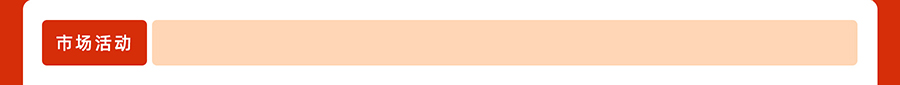
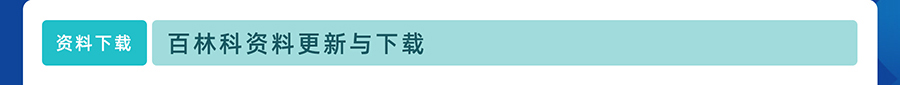
Add files via upload

diff --git a/download.html b/download.html
@@ -1,0 +1,109 @@
+<!doctype html>
+<html>
+<head>
+<meta charset="utf-8">
+<title>无标题文档</title>
+<style type="text/css"></style>
+</head>
+<body font size="0">
+<table border="0" align="center" cellpadding="0" cellspacing="0" bgcolor="#0f459b" width="900">
+  <tr><td colspan="5"><img align="absmiddle" src="banner.jpg" style="float:left;margin-left:0px;"></td></tr>
+  <tr><td colspan="5"><a href="https://mp.weixin.qq.com/s/qbF-quPCbIiAVmuA1yw9aQ" target="_blank"><img align="absmiddle" src="title.jpg" style="float:left;margin-left:0px;"></a></td></tr>
+  <tr><td width="23">&nbsp;</td>
+    <td width="40" bgcolor="#FFFFFF"></td>
+    <td width="774" bgcolor="#FFFFFF"><font color="#b0221e" size="4" face="阿里巴巴普惠体">公司介绍</font>
+      <ul>
+        <li><a href="https://qr.dingtalk.com/page/yunpan?route=previewDentry&spaceId=8086400362&fileId=129513717646&type=file" target="_blank"><font color="#333333" size="3" face="阿里巴巴普惠体">【公司介绍】百林科宣传页2023</font></a></li>
+		<li><a href="https://qr.dingtalk.com/page/yunpan?route=previewDentry&spaceId=8086400362&fileId=129513365692&type=file" target="_blank"><font color="#333333" size="3" face="阿里巴巴普惠体">【公司介绍】百林科宣传页2023-ENG</font></a></li>
+        <li><a href="https://qr.dingtalk.com/page/yunpan?route=previewDentry&spaceId=8086400362&fileId=120339082653&type=file" target="_blank"><font color="#333333" size="3" face="阿里巴巴普惠体">百林科 生物工艺核心装备和耗材解决方案供应商</font></a></li>
+        <li><a href="https://qr.dingtalk.com/page/yunpan?route=previewDentry&spaceId=8086400362&fileId=114509986481&type=file" target="_blank"><font color="#333333" size="3" face="阿里巴巴普惠体">【官方介绍】This is BioLink-2023V8</font></a></li>
+      </ul>
+      <p><font color="#b0221e" size="4" face="阿里巴巴普惠体">产品手册</font></p>
+      <ul>
+        <li><a href="https://qr.dingtalk.com/page/yunpan?route=previewDentry&spaceId=8086400362&fileId=130492978861&type=file" target="_blank"><font color="#333333" size="3" face="阿里巴巴普惠体">科研用户选型手册</font></a></li>
+        <li><a href="https://qr.dingtalk.com/page/yunpan?route=previewDentry&spaceId=8086400362&fileId=132292503448&type=file" target="_blank"><font color="#333333" size="3" face="阿里巴巴普惠体">NovaLinX® Nuclease-free 一次性耗材</font></a></li>
+        <li><a href="https://qr.dingtalk.com/page/yunpan?route=previewDentry&spaceId=8086400362&fileId=126455127081&type=file" target="_blank"><font color="#333333" size="3" face="阿里巴巴普惠体">Chrom-LinX® 系列手动压缩层析柱</font></a></li>
+        <li><a href="https://qr.dingtalk.com/page/yunpan?route=previewDentry&spaceId=8086400362&fileId=126440441151&type=file" target="_blank"><font color="#333333" size="3" face="阿里巴巴普惠体">Chrom-LinX® Manual Compression Chromatography Column</font></a></li>
+        <li><a href="https://qr.dingtalk.com/page/yunpan?route=previewDentry&spaceId=8086400362&fileId=126455009372&type=file" target="_blank"><font color="#333333" size="3" face="阿里巴巴普惠体">Chrom-LinX® Auto系列电动柱层析柱</font></a></li>
+        <li><a href="https://qr.dingtalk.com/page/yunpan?route=previewDentry&spaceId=8086400362&fileId=126440014111&type=file" target="_blank"><font color="#333333" size="3" face="阿里巴巴普惠体">Chrom-LinX® Auto Automated Chromatography Column</font></a></li>
+        <li><a href="https://qr.dingtalk.com/page/yunpan?route=previewDentry&spaceId=8086400362&fileId=132331336323&type=file" target="_blank"><font color="#333333" size="3" face="阿里巴巴普惠体">CytoLinX® WB系列一次性细胞培养袋</font></a></li>
+        <li><a href="https://qr.dingtalk.com/page/yunpan?route=previewDentry&spaceId=8086400362&fileId=130660359337&type=file" target="_blank"><font color="#333333" size="3" face="阿里巴巴普惠体">CytoLinX® GB系列台式玻璃生物反应器</font></a></li>
+        <li><a href="https://qr.dingtalk.com/page/yunpan?route=previewDentry&spaceId=8086400362&fileId=127636606269&type=file" target="_blank"><font color="#333333" size="3" face="阿里巴巴普惠体">CytoLinX® GB Benchtop Glass Bioreactor</font></a></li>
+        <li><a href="https://qr.dingtalk.com/page/yunpan?route=previewDentry&spaceId=8086400362&fileId=124704428335&type=file" target="_blank"><font color="#333333" size="3" face="阿里巴巴普惠体">CytoLinX® BR 50-2000 L Single-Use Bioreactor</font></a></li>
+        <li><a href="https://qr.dingtalk.com/page/yunpan?route=previewDentry&spaceId=8086400362&fileId=130660440425&type=file" target="_blank"><font color="#333333" size="3" face="阿里巴巴普惠体">HydroLinX® 水化产品</font></a></li>
+        <li><a href="https://qr.dingtalk.com/page/yunpan?route=previewDentry&spaceId=8086400362&fileId=124061086941&type=file" target="_blank"><font color="#333333" size="3" face="阿里巴巴普惠体">HydroLinX® Hydration Products</font></a></li>
+        <li><a href="https://qr.dingtalk.com/page/yunpan?route=previewDentry&spaceId=8086400362&fileId=130635666799&type=file" target="_blank"><font color="#333333" size="3" face="阿里巴巴普惠体">BioHub® 一体式隔膜仪表三通</font></a></li>
+        <li><a href="https://qr.dingtalk.com/page/yunpan?route=previewDentry&spaceId=8086400362&fileId=130659969679&type=file" target="_blank"><font color="#333333" size="3" face="阿里巴巴普惠体">BioHub® Sealer 二代无菌封管机</font></a></li>
+        <li><a href="https://qr.dingtalk.com/page/yunpan?route=previewDentry&spaceId=8086400362&fileId=124061859986&type=file" target="_blank"><font color="#333333" size="3" face="阿里巴巴普惠体">BioHub® Sealer</font></a></li>
+        <li><a href="https://qr.dingtalk.com/page/yunpan?route=previewDentry&spaceId=8086400362&fileId=124061086941&type=file" target="_blank"></a><a href="https://qr.dingtalk.com/page/yunpan?route=previewDentry&spaceId=8086400362&fileId=121586254804&type=file" target="_blank"><font color="#333333" size="3" face="阿里巴巴普惠体">BioHub® DS系列 一次性桌面搅拌系统</font></a></li>
+        <li><a href="https://qr.dingtalk.com/page/yunpan?route=previewDentry&spaceId=8086400362&fileId=130660470368&type=file" target="_blank"><font color="#333333" size="3" face="阿里巴巴普惠体">PuriLinX® 台式层析系统</font></a></li>
+        <li><a href="https://qr.dingtalk.com/page/yunpan?route=previewDentry&spaceId=8086400362&fileId=124164339375&type=file" target="_blank"><font color="#333333" size="3" face="阿里巴巴普惠体">PuriLinX® Desktop Chromatography System</font></a></li>
+        <li><a href="https://qr.dingtalk.com/page/yunpan?route=previewDentry&spaceId=8086400362&fileId=128605800884&type=file" target="_blank"><font color="#333333" size="3" face="阿里巴巴普惠体">一次性技术解决方案选型指南</font></a></li>
+        <li><a href="https://qr.dingtalk.com/page/yunpan?route=previewDentry&spaceId=8086400362&fileId=128892223386&type=file" target="_blank"><font color="#333333" size="3" face="阿里巴巴普惠体">Single-Use Solution Selection Guide</font></a></li>
+        <li><a href="https://qr.dingtalk.com/page/yunpan?route=previewDentry&spaceId=8086400362&fileId=130659940188&type=file" target="_blank"><font color="#333333" size="3" face="阿里巴巴普惠体">FiltraLinX® 超滤夹具系统</font></a></li>
+        <li><a href="https://qr.dingtalk.com/page/yunpan?route=previewDentry&spaceId=8086400362&fileId=130374938801&type=file" target="_blank"><font color="#333333" size="3" face="阿里巴巴普惠体">FiltraLinX® Benchtop Semi-Automated TFF System</font></a></li>
+        <li><a href="https://qr.dingtalk.com/page/yunpan?route=previewDentry&spaceId=8086400362&fileId=129943759589&type=file" target="_blank"><font color="#333333" size="3" face="阿里巴巴普惠体">FiltraLinX® 桌面实验型半自动中空纤维超滤系统</font></a></li>
+        <li><a href="https://qr.dingtalk.com/page/yunpan?route=previewDentry&spaceId=8086400362&fileId=130374938801&type=file" target="_blank"><font color="#333333" size="3" face="阿里巴巴普惠体">FiltraLinX® Benchtop Semi-Automated TFF System</font></a></li>
+		<li><a href="https://qr.dingtalk.com/page/yunpan?route=previewDentry&spaceId=8086400362&fileId=131017048829&type=file" target="_blank"><font color="#333333" size="3" face="阿里巴巴普惠体">FiltraLinX® Benchtop Manual Hollow Fiber TFF System</font></a></li>
+        <li><a href="https://qr.dingtalk.com/page/yunpan?route=previewDentry&spaceId=8086400362&fileId=129943598385&type=file" target="_blank"><font color="#333333" size="3" face="阿里巴巴普惠体">FiltraLinX® 桌面手动中空纤维超滤系统</font></a></li>
+        <li><a href="https://qr.dingtalk.com/page/yunpan?route=previewDentry&spaceId=8086400362&fileId=131377359743&type=file" target="_blank"><font color="#333333" size="3" face="阿里巴巴普惠体">FiltraLinX® Tangential Flow Filtration Holder</font></a></li>
+        <li><a href="https://qr.dingtalk.com/page/yunpan?route=previewDentry&spaceId=8086400362&fileId=130660129762&type=file" target="_blank"><font color="#333333" size="3" face="阿里巴巴普惠体">FiltraLinX® 系列除病毒过滤夹具</font></a></li>
+        <li><a href="https://qr.dingtalk.com/page/yunpan?route=previewDentry&spaceId=8086400362&fileId=127529980810&type=file" target="_blank"><font color="#333333" size="3" face="阿里巴巴普惠体">FiltraLinX® Virus Filter Holder</font></a></li>
+        <li><a href="https://qr.dingtalk.com/page/yunpan?route=previewDentry&spaceId=8086400362&fileId=118868067881&type=file" target="_blank"><font color="#333333" size="3" face="阿里巴巴普惠体">FiltraLinX® 系列深层过滤夹具（M款）</font></a></li>
+        <li><a href="https://qr.dingtalk.com/page/yunpan?route=previewDentry&spaceId=8086400362&fileId=118857284436&type=file" target="_blank"><font color="#333333" size="3" face="阿里巴巴普惠体">FiltraLinX® Depth Filter Holder (Type M)</font></a></li>
+        <li><a href="https://qr.dingtalk.com/page/yunpan?route=previewDentry&spaceId=8086400362&fileId=118868271991&type=file" target="_blank"><font color="#333333" size="3" face="阿里巴巴普惠体">FiltraLinX® 系列深层过滤夹具(P3C款）</font></a></li>
+        <li><a href="https://qr.dingtalk.com/page/yunpan?route=previewDentry&spaceId=8086400362&fileId=118857216109&type=file" target="_blank"><font color="#333333" size="3" face="阿里巴巴普惠体">FiltraLinX® Depth Filter Holder (Type P3C)</font></a></li>
+        <li><a href="https://qr.dingtalk.com/page/yunpan?route=previewDentry&spaceId=8086400362&fileId=130660499121&type=file" target="_blank"><font color="#333333" size="3" face="阿里巴巴普惠体">BioHub® 一次性细胞培养配套耗材</font></a></li>
+        <li><a href="https://qr.dingtalk.com/page/yunpan?route=previewDentry&spaceId=8086400362&fileId=118843793212&type=file" target="_blank"><font color="#333333" size="3" face="阿里巴巴普惠体">BioHub® Single-Use Cell Culture Consumables</font></a></li>
+        <li><a href="https://qr.dingtalk.com/page/yunpan?route=previewDentry&spaceId=8086400362&fileId=128964712436&type=file" target="_blank"><font color="#333333" size="3" face="阿里巴巴普惠体">ChromaX® 层析介质选择指南</font></a></li>
+        <li><a href="https://qr.dingtalk.com/page/yunpan?route=previewDentry&spaceId=8086400362&fileId=128964910942&type=file" target="_blank"><font color="#333333" size="3" face="阿里巴巴普惠体">ChromaX® Chromatography Resin Selection Guide</font></a></li>
+        <li><a href="https://qr.dingtalk.com/page/yunpan?route=previewDentry&spaceId=8086400362&fileId=130659866622&type=file" target="_blank"><font color="#333333" size="3" face="阿里巴巴普惠体">ChromaX®A20亲和色谱分析柱</font></a></li>
+        <li><a href="https://qr.dingtalk.com/page/yunpan?route=previewDentry&spaceId=8086400362&fileId=114447809911&type=file" target="_blank"><font color="#333333" size="3" face="阿里巴巴普惠体">ChromaX® A20 Affinity Chromatography Column</font></a></li>
+      </ul>
+      <p><font color="#b0221e" size="4" face="阿里巴巴普惠体">宣传视频</font></p>
+      <ul><li><a href="https://qr.dingtalk.com/page/yunpan?route=previewDentry&spaceId=8086400362&fileId=130411198940&type=file" target="_blank"><font color="#333333" size="3" face="阿里巴巴普惠体">【Video】FiltraLinX® Benchtop Semi-Automatic TFF System</font></a></li>
+        <li><a href="https://qr.dingtalk.com/page/yunpan?route=previewDentry&spaceId=8086400362&fileId=128148800997&type=file" target="_blank"><font color="#333333" size="3" face="阿里巴巴普惠体">【Video】FiltraLinX® 桌面实验型半自动超滤系统-CN</font></a></li>
+        <li><a href="https://qr.dingtalk.com/page/yunpan?route=previewDentry&spaceId=8086400362&fileId=124965736749&type=file" target="_blank"><font color="#333333" size="3" face="阿里巴巴普惠体">【Video】CytoLinX® BR 一次性生物反应器-CN</font></a></li>
+        <li><a href="https://qr.dingtalk.com/page/yunpan?route=previewDentry&spaceId=8086400362&fileId=127170098610&type=file" target="_blank"><font color="#333333" size="3" face="阿里巴巴普惠体">【Video】CytoLinX® BR Single-Use Bioreactor</font></a></li>
+        <li><a href="https://qr.dingtalk.com/page/yunpan?route=previewDentry&spaceId=8086400362&fileId=125664025897&type=file" target="_blank"><font color="#333333" size="3" face="阿里巴巴普惠体">【Video】CytoLinX® WB 一次性波浪式生物反应器-CN</font></a></li>
+        <li><a href="https://qr.dingtalk.com/page/yunpan?route=previewDentry&spaceId=8086400362&fileId=126563649088&type=file" target="_blank"><font color="#333333" size="3" face="阿里巴巴普惠体">【Video】CytoLinX® WB Single-Use Rocking Bioreactor</font></a></li>
+        <li><a href="https://qr.dingtalk.com/page/yunpan?route=previewDentry&spaceId=8086400362&fileId=128604506389&type=file" target="_blank"><font color="#333333" size="3" face="阿里巴巴普惠体">【Video】CytoLinX® WB 200 一次性波浪式生物反应器-CN</font></a></li>
+        <li><a href="https://qr.dingtalk.com/page/yunpan?route=previewDentry&spaceId=8086400362&fileId=129620571442&type=file" target="_blank"><font color="#333333" size="3" face="阿里巴巴普惠体">【Video】CytoLinX® WB 200 Single-Use Rocking Bioreactor</font></a></li>
+        <li><a href="https://qr.dingtalk.com/page/yunpan?route=previewDentry&spaceId=8086400362&fileId=125775218570&type=file" target="_blank"><font color="#333333" size="3" face="阿里巴巴普惠体">【Video】PuriLinX® 台式层析系统-CN</font></a></li>
+        <li><a href="https://qr.dingtalk.com/page/yunpan?route=previewDentry&spaceId=8086400362&fileId=125775218570&type=file" target="_blank"><font color="#333333" size="3" face="阿里巴巴普惠体">【Video】PuriLinX® Desktop Chromatography System</font></a></li>
+        <li><a href="https://qr.dingtalk.com/page/yunpan?route=previewDentry&spaceId=8086400362&fileId=127169479485&type=file" target="_blank"><font color="#333333" size="3" face="阿里巴巴普惠体">【Video】BioLink Mixing Solutions</font></a></li>
+        <li><a href="https://qr.dingtalk.com/page/yunpan?route=previewDentry&spaceId=8086400362&fileId=126487743589&type=file" target="_blank"><font color="#333333" size="3" face="阿里巴巴普惠体">【Video】BioHub® DS Desktop Mixing System</font></a></li>
+        <li><a href="https://qr.dingtalk.com/page/yunpan?route=previewDentry&spaceId=8086400362&fileId=130297440494&type=file" target="_blank"><font color="#333333" size="3" face="阿里巴巴普惠体">【Video】BioHub® Sealer New Generation</font></a></li>
+        <li><a href="https://qr.dingtalk.com/page/yunpan?route=previewDentry&spaceId=8086400362&fileId=122306842191&type=file" target="_blank"><font color="#333333" size="3" face="阿里巴巴普惠体">【Video】CytoLinX® GB 台式玻璃生物反应器-CN</font></a></li>
+        <li><a href="https://qr.dingtalk.com/page/yunpan?route=previewDentry&spaceId=8086400362&fileId=113627440022&type=file" target="_blank"><font color="#333333" size="3" face="阿里巴巴普惠体">【Video】百林科兰州智能智造基地二期视频-CN</font></a></li>
+        <li><a href="https://qr.dingtalk.com/page/yunpan?route=previewDentry&spaceId=8086400362&fileId=116183947859&type=file" target="_blank"><font color="#333333" size="3" face="阿里巴巴普惠体">【Video】百林科层析填料兰州智能制造基地-CN</font></a></li>
+      </ul>
+      <p><font color="#b0221e" size="4" face="阿里巴巴普惠体">宣传照片</font></p>
+      <ul>
+        
+        <li><a href="https://qr.dingtalk.com/page/yunpan?route=previewDentry&spaceId=8086400362&fileId=127321663372&type=folder" target="_blank"><font color="#333333" size="3" face="阿里巴巴普惠体">CytoLinX® WB 200一次性波浪式生物反应器</font></a></li>
+        <li><a href="https://qr.dingtalk.com/page/yunpan?route=previewDentry&spaceId=8086400362&fileId=127286770578&type=folder" target="_blank"><font color="#333333" size="3" face="阿里巴巴普惠体">CytoLinX® WB一次性使用细胞培养袋</font></a></li>
+        <li><a href="https://qr.dingtalk.com/page/yunpan?route=previewDentry&spaceId=8086400362&fileId=127321615422&type=folder" target="_blank"><font color="#333333" size="3" face="阿里巴巴普惠体">BioHub® 一次性使用无菌灌装袋</font></a></li>
+        <li><a href="https://qr.dingtalk.com/page/yunpan?route=previewDentry&spaceId=8086400362&fileId=127321102541&type=folder" target="_blank"><font color="#333333" size="3" face="阿里巴巴普惠体">BioHub® 一次性耗材——三通带不锈钢底座部件</font></a></li>
+        <li><a href="https://qr.dingtalk.com/page/yunpan?route=previewDentry&spaceId=8086400362&fileId=127286569465&type=folder" target="_blank"><font color="#333333" size="3" face="阿里巴巴普惠体">BioHub® Sealer新一代全自动无菌封管机</font></a></li>
+        <li><a href="https://qr.dingtalk.com/page/yunpan?route=previewDentry&spaceId=8086400362&fileId=127286651668&type=folder" target="_blank"><font color="#333333" size="3" face="阿里巴巴普惠体">FiltraLinX® 桌面实验型半自动中空纤维超滤系统</font></a></li>
+        <li><a href="https://qr.dingtalk.com/page/yunpan?route=previewDentry&spaceId=8086400362&fileId=127537859898&type=folder" target="_blank"><font color="#333333" size="3" face="阿里巴巴普惠体">FiltraLinX® 桌面实验型手动中空纤维超滤机</font></a></li>
+        <li><a href="https://qr.dingtalk.com/page/yunpan?route=previewDentry&spaceId=8086400362&fileId=115941798122&type=folder" target="_blank"><font color="#333333" size="3" face="阿里巴巴普惠体">PuriLinX® 台式层析系统</font></a></li>
+        <li><a href="https://qr.dingtalk.com/page/yunpan?route=previewDentry&spaceId=8086400362&fileId=122536924339&type=folder" target="_blank"><font color="#333333" size="3" face="阿里巴巴普惠体">苏州研发应用展示中心</font></a></li>
+        <li><a href="https://qr.dingtalk.com/page/yunpan?route=previewDentry&spaceId=8086400362&fileId=122536949188&type=folder" target="_blank"><font color="#333333" size="3" face="阿里巴巴普惠体">百林科应用技术培训中心</font></a></li>
+        <li><a href="https://qr.dingtalk.com/page/yunpan?route=previewDentry&spaceId=8086400362&fileId=120024103875&type=folder" target="_blank"><font color="#333333" size="3" face="阿里巴巴普惠体">CytoLinX® GB系列台式玻璃生物反应器</font></a></li>
+        <li><a href="https://qr.dingtalk.com/page/yunpan?route=previewDentry&spaceId=8086400362&fileId=119987917309&type=folder" target="_blank"><font color="#333333" size="3" face="阿里巴巴普惠体">BioHub® 无菌封管机（二代）</font></a></li>
+        <li><a href="https://qr.dingtalk.com/page/yunpan?route=previewDentry&spaceId=8086400362&fileId=120024529869&type=folder" target="_blank"><font color="#333333" size="3" face="阿里巴巴普惠体">苏州苏烜生产基地</font></a></li>
+        <li><a href="https://qr.dingtalk.com/page/yunpan?route=previewDentry&spaceId=8086400362&fileId=120024481292&type=folder" target="_blank"><font color="#333333" size="3" face="阿里巴巴普惠体">苏州思迈克斯生产基地</font></a></li>
+        <li><a href="https://qr.dingtalk.com/page/yunpan?route=previewDentry&spaceId=8086400362&fileId=117156220912&type=folder" target="_blank"><font color="#333333" size="3" face="阿里巴巴普惠体">Slurry-LinX® 匀浆罐</font></a></li>
+        <li><a href="https://qr.dingtalk.com/page/yunpan?route=previewDentry&spaceId=8086400362&fileId=115941798122&type=folder" target="_blank"><font color="#333333" size="3" face="阿里巴巴普惠体">PuriLinX® 台式层析系统</font></a></li>
+        <li><a href="https://qr.dingtalk.com/page/yunpan?route=previewDentry&spaceId=8086400362&fileId=115632932710&type=folder" target="_blank"><font color="#333333" size="3" face="阿里巴巴普惠体">BioHub® 一次性耗材</font></a></li>
+        <li><a href="https://qr.dingtalk.com/page/yunpan?route=previewDentry&spaceId=8086400362&fileId=111896895193&type=folder" target="_blank"><font color="#333333" size="3" face="阿里巴巴普惠体">硬件精密加工平台（钣金工厂）</font></a></li>
+      </ul>      </td>
+    <td width="40" bgcolor="#FFFFFF">&nbsp;</td>
+    <td width="23">&nbsp;</td>
+  </tr>
+  <tr><td colspan="5"><a href="https://biolink.cloud.pageseagle.com/991999981982318592/1146352960553353216/default" target="_blank"><img align="absmiddle" src="bot.jpg" style="float:left;margin-left:0px;"></a></td></tr>
+</table>
+</body>
+</html>
